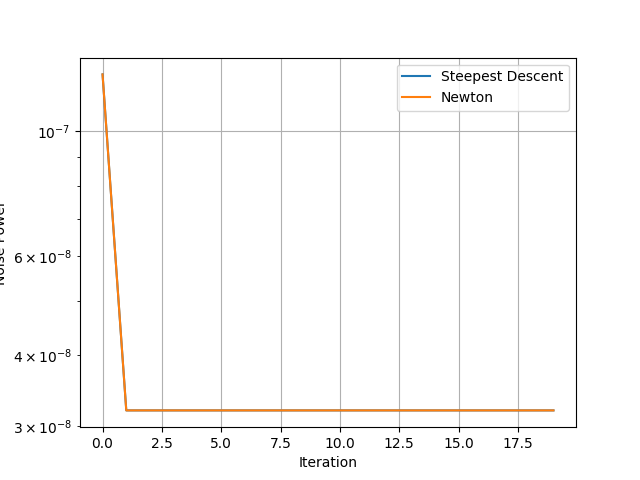
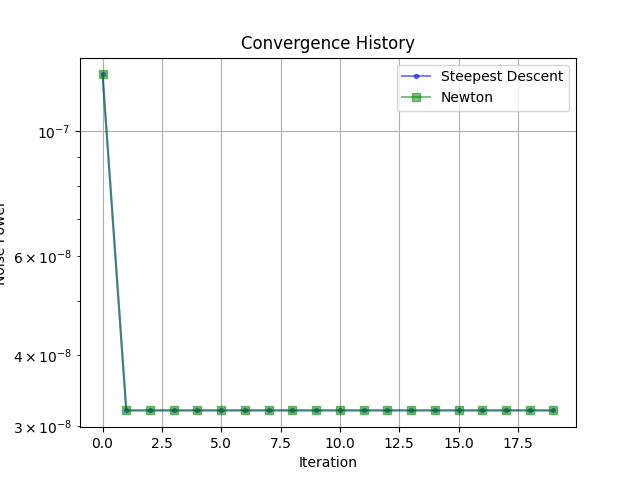
convergence graph can see all methods

diff --git a/beamforming/interface.py b/beamforming/interface.py
@@ -143,41 +143,32 @@ def main():
             "Try reducing the frame_duration in the config file."
         )
 
-    # Use 50% overlap with Hann window
+    # 50% overlap with Hann window
     hop = stft_window_size // 2
     window = np.hanning(stft_window_size)
 
-    # Initialize list to store the STFT matrices of each channel
-    stft_list: list[NDArray[np.complex128]] = list()
-    fvec: NDArray[np.float64] = np.empty(0, dtype=np.float64)
-
-    # Iterate over microphone channels
-    for mic_idx in range(config.mic_count):
-        # Extract time-domain signal for one microphone channel
-        mic_signal: NDArray[np.float64] = mic_audio[:, mic_idx]
-
-        # Compute STFT
-        fvec, _, stft_matrix = stft(  # type: ignore[reportUnknownMemberType]
-            mic_signal,
+    def create_stft_matrix(mic_channel) -> NDArray[np.complex128]:
+        fvec, _, stft_matrix = stft(  
+            mic_channel,
             fs=config.fs,
             nperseg=stft_window_size,
             noverlap=stft_window_size - hop,
-            window=window,  # type: ignore[reportUnknownMemberType]
+            window=window,  
             padded=True,
             return_onesided=True,
-        )
-
-        # Cast matrix type to ensure compatibility
+        ) 
         stft_matrix = np.asarray(stft_matrix, dtype=np.complex128)
 
-        # Append STFT of microphone channel
-        stft_list.append(stft_matrix)
+        return stft_matrix, fvec
 
-    # Convert list to array, all channel samples from time step grouped into same array
+    # stft_list = list(map(lambda mic_info: create_stft_matrix(mic_info), mic_audio.T))
+    stft_list, fvecs = zip(*map(lambda mic_index: create_stft_matrix(mic_audio[:, mic_index]), range(config.mic_count)))
+    fvec = fvecs[0]
+
+
     stft_output = np.stack(stft_list, axis=-1)
 
-    # Extract dimensional information
-    freq_bin_count, time_frame_count, _ = stft_output.shape
+    freq_bin_count, _time_frame_count, _ = stft_output.shape
 
     # Compute steering vector, take first entry for now
     steering_vecs = compute_steering_vector(
@@ -225,8 +216,22 @@ def main():
     # Plot convergence history
     plot_history(
         {
-            "Steepest Descent": np.mean(np.asarray(power_history_steepest), axis=0),
-            "Newton": np.mean(np.asarray(power_history_newton), axis=0),
+            "Steepest Descent": (
+                np.mean(np.asarray(power_history_steepest), axis=0),
+                {
+                    "marker": ".",
+                    "color": "blue",
+                    "alpha": 0.5, 
+                }
+                ),
+            "Newton": (
+                np.mean(np.asarray(power_history_newton), axis=0),
+                {
+                    "marker": "s",
+                    "color": "green",
+                    "alpha": 0.5, 
+                }
+            ),
         },
         config.output_dir,
     )

diff --git a/beamforming/util/visualize.py b/beamforming/util/visualize.py
@@ -155,9 +155,9 @@ def plot_history(data: dict[str, list[np.float64]], output_dir: Path) -> None:
     plt.figure()  # type: ignore[reportUnknownMemberType]
 
     # Iterate through data
-    for label, history in data.items():
+    for label, (history, kwargs) in data.items():
         # Plot history
-        plt.semilogy(history, label=label)  # type: ignore[reportUnknownMemberType]
+        plt.semilogy(history, label=label, **kwargs)  # type: ignore[reportUnknownMemberType]
 
     # Set axis labels
     plt.xlabel("Iteration")  # type: ignore[reportUnknownMemberType]
@@ -165,6 +165,9 @@ def plot_history(data: dict[str, list[np.float64]], output_dir: Path) -> None:
 
     # Enable plot grid
     plt.grid(visible=True)  # type: ignore[reportUnknownMemberType]
+
+    # Set figure title
+    plt.title("Convergence History")  # type: ignore[reportUnknownMemberType]
 
     # Add legend to figure
     plt.legend()  # type: ignore[reportUnknownMemberType]
